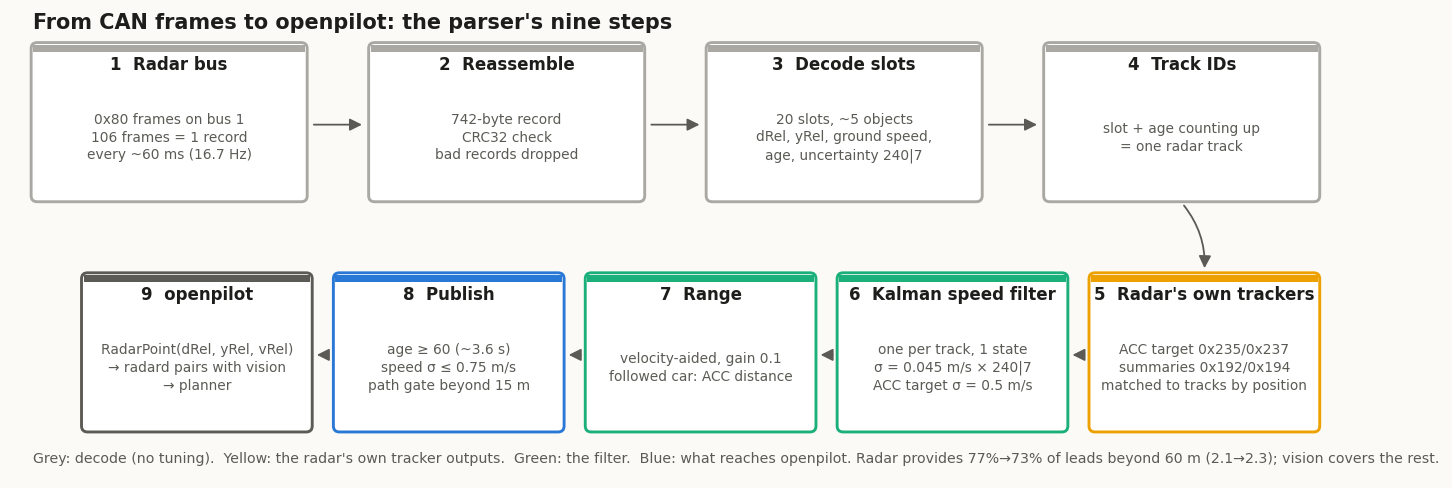
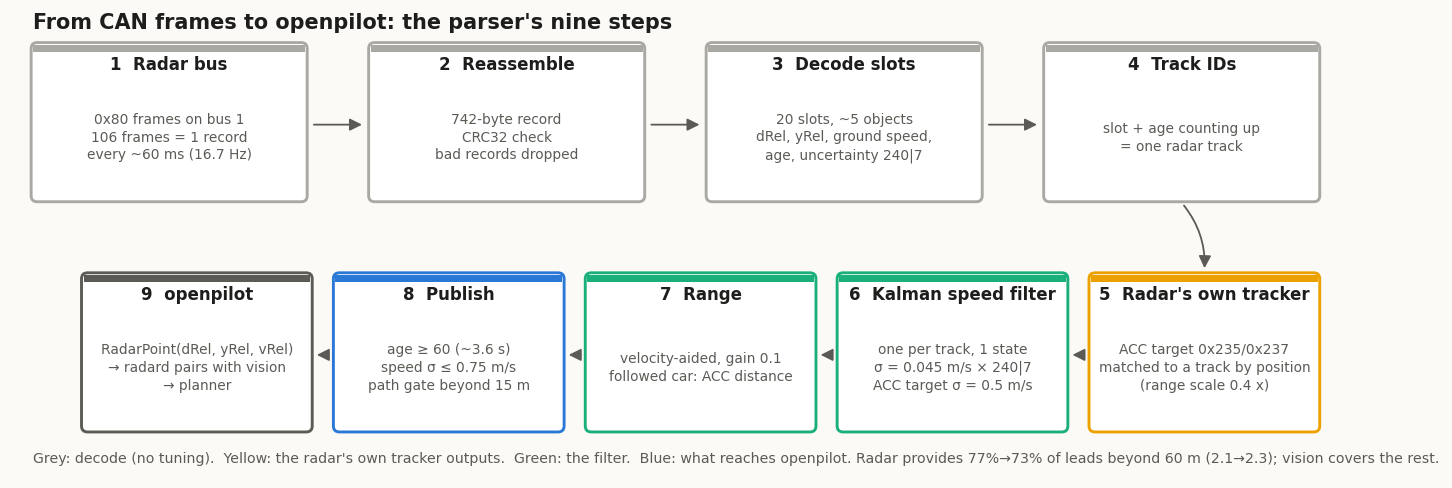
feat: fused 2.4.0 without the radar's target summaries: the default drives exactly like the openpilot version (#81)

Changed region(s): [[0.7438, 0.7377, 0.8988, 0.7992], [0.7438, 0.584, 0.9298, 0.6148]]

diff --git a/tools/make_guide_figures.py b/tools/make_guide_figures.py
@@ -46,7 +46,7 @@ def pipeline() -> None:
     ("2  Reassemble", "742-byte record\nCRC32 check\nbad records dropped", GRAY),
     ("3  Decode slots", "20 slots, ~5 objects\ndRel, yRel, ground speed,\nage, uncertainty 240|7", GRAY),
     ("4  Track IDs", "slot + age counting up\n= one radar track", GRAY),
-    ("5  Radar's own trackers", "ACC target 0x235/0x237\nsummaries 0x192/0x194\nmatched to tracks by position", S4),
+    ("5  Radar's own tracker", "ACC target 0x235/0x237\nmatched to a track by position\n(range scale 0.4 x)", S4),
     ("6  Kalman speed filter", "one per track, 1 state\nσ = 0.045 m/s × 240|7\nACC target σ = 0.5 m/s", S3),
     ("7  Range", "velocity-aided, gain 0.1\nfollowed car: ACC distance", S3),
     ("8  Publish", "age ≥ 60 (~3.6 s)\nspeed σ ≤ 0.75 m/s\npath gate beyond 15 m", S1),
@@ -218,9 +218,9 @@ def parts_ledger() -> None:
 def oracle() -> None:
   """Unnecessary and missed braking against openpilot's planner on a hindsight lead (confident moments), two data sets."""
   O = json.loads((SUM / "oracle_reference.json").read_text())
-  sets = (("owner's road drives (7.65 h)", O["confident"], ["vision", "2.1", "2.2", "2.3"]),
-          ("34 replay drives, independent (6.72 h)", O["suite_34_drives"]["confident"], ["vision", "2.1", "2.3"]))
-  names = {"vision": "vision only", "2.1": "2.1", "2.2": "2.2", "2.3": "2.3 (default)"}; col = {"vision": VIS, "2.1": V21, "2.2": GRAY, "2.3": V23}
+  sets = (("owner's road drives (7.65 h)", O["confident"], ["vision", "2.1", "2.3", "2.4"]),
+          ("34 replay drives, independent (6.72 h)", O["suite_34_drives"]["confident"], ["vision", "2.1", "2.3", "2.4"]))
+  names = {"vision": "vision only", "2.1": "2.1", "2.3": "2.3", "2.4": "2.4 (default)"}; col = {"vision": VIS, "2.1": V21, "2.3": GRAY, "2.4": V23}
   fig, axs = plt.subplots(2, 2, figsize=(11.5, 5.8))
   for r, (label, C, vers) in enumerate(sets):
     for c, (kind, title) in enumerate((("unnecessary", "braked > 0.5 m/s² harder than needed"), ("missed", "missed braking the oracle asked for"))):

diff --git a/tools/make_fused_figures.py b/tools/make_fused_figures.py
@@ -66,17 +66,14 @@ def how_it_works() -> None:
     a1.plot(rng, sig, color=GRAY, label="object-list speed (0.045 × 240|7)")
     a1.plot(rng, sig * FUSED_CONFIG.young_sigma_scale, color=GRAY, ls=":", label="… young track (× 1.8)")
     a1.axhline(FUSED_CONFIG.acc_sigma_mps, color=ACC, ls="--", lw=1.2, label="ACC target speed")
-    a1.plot([5, 80], [FUSED_CONFIG.summary_sigma_mps + 0.03] * 2, color=SUM, lw=1.2, label="summary speed (≤ 80 m)")
     a1.set_xlabel("range (m)"); a1.set_ylabel("reading std (m/s)"); a1.set_title("How much each reading is trusted")
     a1.legend(loc="upper left")
     # share of the estimate that comes from the radar's own trackers when they are present
     q = (FUSED_CONFIG.lead_accel_std_mps2 * 0.06) ** 2
     w_obj = 1 / sig ** 2; w_trk = 1 / FUSED_CONFIG.acc_sigma_mps ** 2
     a2.plot(rng, w_trk / (w_trk + w_obj), color=ACC, label="ACC target present")
-    w2 = np.where(rng <= 80, 2 * w_trk, w_trk)
-    a2.plot(rng, w2 / (w2 + w_obj), color=SUM, label="ACC target + summary")
-    a2.set_ylim(0, 1.02); a2.set_xlabel("range (m)"); a2.set_ylabel("weight of the radar's trackers")
-    a2.set_title("Near: object list. Far: the radar's trackers"); a2.legend(loc="lower right")
+    a2.set_ylim(0, 1.02); a2.set_xlabel("range (m)"); a2.set_ylabel("weight of the ACC target reading")
+    a2.set_title("Near: object list. Far: the ACC target"); a2.legend(loc="lower right")
     # speed std vs age for a constant lead at three ranges (the publication gate)
     for d, color in ((20, S1), (60, S4), (90, S2)):
         cfg = replace(FUSED_CONFIG, min_publish_age=1, publish_speed_std_mps=99.0)

diff --git a/ars510/interface.py b/ars510/interface.py
@@ -151,14 +151,15 @@ BASE_CONFIG = NativeInterfaceConfig(
 # yaw-predicted path at range (docs/12 "Lead-choice guards"). The openpilot
 # version (upstream/ars510_radar.py) is this profile in one file.
 FUSED_CONFIG = replace(BASE_CONFIG, range_fusion_gain=0.1, relink_max_gap_s=0.0, drop_saturated_codes=False,
-                       fused_speed_filter=True, path_gate_m=2.5)
+                       fused_speed_filter=True, path_gate_m=2.5, summary_sigma_mps=0.0)
 
 # Experimental (fork only, docs/12 "Kalman variants tested"): fused with the object-list error as a 1.2 s Gauss-Markov
 # bias state, noise scaled by ego speed and the radar's acceleration reading (fitted on the hidden-ACC teacher). 15%
 # fewer false closings offline and closer to vision on fresh drives, but slow to let go of a far excursion that recovers.
 COLORED_CONFIG = replace(FUSED_CONFIG, speed_sigma_per_code=0.001, speed_bias_tau_s=1.19, speed_bias_sigma_per_code=0.0096,
                          speed_sigma_ego_gain=0.48, speed_sigma_accel_gain=0.51, young_sigma_scale=1.0,
-                         lead_accel_std_mps2=1.0, speed_init_sigma_per_code=0.045, speed_divergence_inflation=True)
+                         lead_accel_std_mps2=1.0, speed_init_sigma_per_code=0.045, speed_divergence_inflation=True,
+                         summary_sigma_mps=0.5)
 
 NATIVE_VREL_STATUS = "native_over_ground_minus_ego"
 UNRESOLVED_NAN = "unresolved_nan"

diff --git a/openpilot/ars510_radar_interface.py b/openpilot/ars510_radar_interface.py
@@ -37,8 +37,8 @@ from opendbc.car.toyota.ars510 import BASE_CONFIG, COLORED_CONFIG, FUSED_CONFIG,
 from opendbc.car.toyota.ars510.constants import (ACC_TARGET_POS_ADDR, ACC_TARGET_VREL_ADDR, CAR_BUS, ID80_ADDR, RADAR_BUS, SUMMARY_ADDRS,
                                                  TOYOTA_KINEMATICS_ADDR, TOYOTA_SPEED_ADDR)
 
-# Decoder profile (docs/08): "fused" (FUSED_CONFIG, default: one Kalman speed filter fusing the object list, the ACC
-# target and the summaries by the radar's own uncertainty, docs/07), "raw" (BASE_CONFIG: the unfiltered radar
+# Decoder profile (docs/08): "fused" (FUSED_CONFIG, default: one Kalman speed filter fusing the object list and the ACC
+# target by the radar's own uncertainty, plus a path gate, docs/12), "raw" (BASE_CONFIG: the unfiltered radar
 # decode, research only) or "openpilot" (the upstream version, ars510_upstream.py: one file in opendbc style).
 # "colored" is an experimental fused variant for road tests (docs/12). `install.py --profile` rewrites this one line.
 PROFILES = {"fused": FUSED_CONFIG, "openpilot": None, "raw": BASE_CONFIG, "colored": COLORED_CONFIG}

diff --git a/openpilot/install.py b/openpilot/install.py
@@ -16,7 +16,7 @@ An install made with an older, patch-based version of this installer is removed 
 
 Profiles (docs/08 has the details and replay numbers):
   fused     FUSED_CONFIG (default): the radar decode + range fusion + one Kalman speed filter per track that weights
-            the object list, the radar's ACC target and its summaries by their own uncertainty
+            the object list and the radar's ACC target by their own uncertainty, with a path gate (= the openpilot version)
   raw       BASE_CONFIG: the unfiltered radar decode (not vision-only, not stock openpilot) with only what radard
             needs to run. Velocity excursions reach the planner unfiltered; for research and comparison only
   colored   experimental: fused with the object-list error as its own (colored-noise) state; fewer false closings

diff --git a/tests/test_profiles_and_ports.py b/tests/test_profiles_and_ports.py
@@ -155,5 +155,6 @@ def test_fused_is_raw_plus_range_fusion_and_one_speed_filter_without_relink_or_g
   from dataclasses import fields
   from ars510 import FUSED_CONFIG
   diff = {f.name for f in fields(BASE_CONFIG) if getattr(BASE_CONFIG, f.name) != getattr(FUSED_CONFIG, f.name)}
-  assert diff == {"range_fusion_gain", "relink_max_gap_s", "drop_saturated_codes", "fused_speed_filter", "path_gate_m"}
+  assert diff == {"range_fusion_gain", "relink_max_gap_s", "drop_saturated_codes", "fused_speed_filter", "path_gate_m",
+                  "summary_sigma_mps"}
   assert FUSED_CONFIG.range_fusion_gain == 0.1 and not FUSED_CONFIG.drop_saturated_codes

diff --git a/tests/test_upstream_candidate.py b/tests/test_upstream_candidate.py
@@ -10,14 +10,13 @@ from pathlib import Path
 
 import pytest
 
-from dataclasses import replace
 
 from ars510 import FUSED_CONFIG, BASE_CONFIG, Ars510NativeRadarInterface
 
 REPO = Path(__file__).resolve().parents[1]
 SAMPLES = sorted((REPO / "data" / "sample").glob("*.csv.gz"))
-# the openpilot version is fused without the summaries (docs/12: no difference in unjustified braking on 34 drives)
-OPENPILOT_EQUIVALENT = replace(FUSED_CONFIG, summary_sigma_mps=0.0)
+# the openpilot version is fused (since 2.4 neither uses the radar's summaries, docs/12)
+OPENPILOT_EQUIVALENT = FUSED_CONFIG
 
 
 def _fake_opendbc() -> dict:

diff --git a/docs/12_kalman_filter.md b/docs/12_kalman_filter.md
@@ -3,11 +3,11 @@
 The object list's speed has slow, correlated errors at range: false closings of 1-10 s beyond about 40 m
 ([07](07_velocity_excursions.md)). The radar reports their size in `240|7` but does not flag each one. The default
 `fused` profile handles them with **one Kalman filter per track** on the lead's speed over ground. Every reading is
-weighted by its own uncertainty: the object list, the radar's ACC target and its target-range summaries. radard then
-runs its usual filter on what this one publishes.
+weighted by its own uncertainty: the object list and the radar's ACC target. radard then runs its usual filter on what
+this one publishes.
 
 Code: `Ars510NativeRadarInterface._fused_speed` in [`ars510/interface.py`](../ars510/interface.py) (fork build), and
-the same filter without the summaries in [`upstream/ars510_radar.py`](../upstream/ars510_radar.py) (openpilot version). Numbers:
+the same filter in [`upstream/ars510_radar.py`](../upstream/ars510_radar.py) (openpilot version). Numbers:
 [`fused_filter.json`](../data/analysis/summaries/fused_filter.json).
 
 ## The model
@@ -27,7 +27,7 @@ publish      vRel = v − v_ego                 first publication once √P ≤ 
 |---|---|---|
 | object-list speed `64\|10` | 0.045 m/s × max(`240\|7`, 1); × 1.8 up to age 60, tapering to × 1 at age 100 | `240\|7` scales with the error against the ACC target ([07](07_velocity_excursions.md#far-range-excursions-match-the-reported-velocity-error-scale)); young tracks err 1.4-2× more |
 | ACC target speed (0x235 at 0.125 m/s per code, + ego speed) | 0.5 m/s | the radar's own ACC tracker, for the one track it matches by position ([05](05_acc_target_and_support.md)) |
-| summary speed (0x192 / 0x194 range, (code − 160) / 16 m; 1 s slope) | 0.5 m/s, up to 80 m | the positions of the radar's selected targets, each attached to the track at that position (range within 15 %, lateral within 1 m); not used on the ACC track |
+| summary speed (0x192 / 0x194 range, (code − 160) / 16 m; 1 s slope), fork option, off | 0.5 m/s, up to 80 m | the positions of the radar's selected targets, each attached to the track at that position (range within 15 %, lateral within 1 m); not used on the ACC track ([below](#what-the-summaries-do)) |
 
 The ACC target and summary units were corrected against the absolute `0x680` range (they had been read about 20%
 small). On the 34 replay drives the correction leaves hard radar-only braking and its unjustified part unchanged
@@ -181,14 +181,13 @@ leads beyond 60 m drops from 77 % to 73 % (vision covers the rest).
 | 34 drives | held-out hard ticks / episodes / target | further / owner hard ticks | owner target episodes | lead flips (held-out) | onset vs vision | driver brakes anticipated |
 |---|---|---|---|---|---|---|
 | 2.1 `fused` | 30 / 11 / 4 | 2 / 0 | 1 | 1,231 | −0.022 s | 43.7 % |
-| 2.3 `fused` (0.4 x ACC match, path gate) | 30 / 11 / 3 | 1 / 0 | 0 | 1,342 | −0.018 s | 41.9 % |
-| openpilot version (no summaries): 2.1 → 2.3 | 30 / 11 / 4 → 30 / 11 / 3 | 2 / 0 → 1 / 0 | 1 → 0 | 1,242 → 1,349 | −0.015 → −0.010 s | 43.1 → 41.3 % |
+| 2.4 `fused` (0.4 x ACC match, path gate; = the openpilot version) | 30 / 11 / 3 | 1 / 0 | 0 | 1,349 | −0.010 s | 41.3 % |
 
 On the owner's 5.8 h of 2.1 road drives (replayed open loop) 2.3 keeps hard radar-only braking at 0 and misses no hard
 vision brake. It cuts radar-only requests of 1 m/s² or more from 10 to 7, starts braking within 0.015 s of 2.1 on every
 drive, and raises lead flips by 8 %. It also removes the second car's hard false brake. In the late-brake case above,
 the first radar lead is at 63 m instead of 47 m and the request −1.47 instead of −2.36 m/s² (vision −1.61). The cost is
-a slightly lower share of driver brakes anticipated at −1 m/s² (41.9 against 43.7 %). Both new constants sit in a
+a slightly lower share of driver brakes anticipated at −1 m/s² (41.3 against 43.7 %). Both new constants sit in a
 flat region: an ACC match scale of 0.33 or 0.5 x and a gate of 2.0 or 3.0 m give the same 34-drive counts and stay
 within 0.4 s of 2.3 against the hindsight-lead oracle below. The openpilot file's parts and
 their line costs are in [10](10_research_directions.md#parts-of-the-openpilot-file).
@@ -206,10 +205,10 @@ because the model's lead range slides from one car to the next at cut-ins.
 
 ![against the oracle](img/analysis/guide_oracle.png)
 
-Over 7.65 h of the owner's road drives, 2.3 brakes unnecessarily (> 0.5 m/s² harder than the oracle, ≥ 0.3 s) for
-4.9 s against 10.6 s for vision only and 11.5 s for 2.1, and misses no more of the braking the oracle asked for (16.1 s,
-vision 16.9 s). On the 34 replay drives, which did not shape 2.3 (6.72 h scored), it is the best of the three on both:
-8.2 s unnecessary (vision 32.6 s, 2.1 8.4 s) and 3.9 s missed (vision 11.0 s, 2.1 5.1 s). Standstill is not scored: the
+Over 7.65 h of the owner's road drives, `fused` brakes unnecessarily (> 0.5 m/s² harder than the oracle, ≥ 0.3 s) for
+5.4 s against 10.6 s for vision only and 11.5 s for 2.1, and misses less of the braking the oracle asked for (13.8 s,
+vision 16.9 s). On the 34 replay drives, which did not shape it (6.72 h scored), it is the best of all versions on
+both: 7.2 s unnecessary (vision 32.6 s, 2.1 8.4 s) and 3.6 s missed (vision 11.0 s, 2.1 5.1 s). Standstill is not scored: the
 planner's stop-and-go logic dominates there. Numbers:
 [`oracle_reference.json`](../data/analysis/summaries/oracle_reference.json).
 
@@ -269,10 +268,11 @@ combination on the same 34 drives. A version drives the same as `fused` when its
 - **The young-track factor and the std gate cost about 5 lines.** With range fusion kept they prevent unjustified
   braking on a far lead (12 and 9 ticks).
 
-The smallest version with the same driving is `fused` without the summaries and the relink. That is the openpilot
-version ([`upstream/ars510_radar.py`](../upstream/ars510_radar.py); its parts and line costs are in [10](10_research_directions.md#parts-of-the-openpilot-file); a test keeps it equal to this
-configuration point for point). The fork's default `fused` keeps the summaries for the smoother response described
-below (`combinations_34_drives` in [`fused_filter.json`](../data/analysis/summaries/fused_filter.json)).
+The smallest version with the same driving is `fused` without the summaries and the relink, and since 2.4 that is
+`fused` itself. The openpilot version ([`upstream/ars510_radar.py`](../upstream/ars510_radar.py); its parts and line
+costs are in [10](10_research_directions.md#parts-of-the-openpilot-file)) is the same filter in one file, and a test
+keeps the two equal point for point (`combinations_34_drives` in
+[`fused_filter.json`](../data/analysis/summaries/fused_filter.json)).
 
 The rule fixed before these results also required no target episode on the owner drives, which the version without
 summaries missed by one. Reviewed afterwards, that episode was an early reaction to a real slowdown, not a false brake,
@@ -291,7 +291,13 @@ summaries reacted about 4 s earlier ([`summary_owner_case.json`](../data/analysi
 Over the 34 replay drives (about 5 h), the summaries change the planner's request by 0.3 m/s² or more on 198 ticks
 (about 10 s). Without them the planner brakes harder on 143 of those ticks: 107 while the gap really was closing, 36
 while it was not. The summaries soften the response to far leads without an ACC target, half usefully and half not.
-That is why the fork's `fused` keeps them and the openpilot version leaves them out.
+
+Against the hindsight-lead oracle ([above](#against-what-the-car-should-have-done)) they do not pay: without them 2.3
+brakes unnecessarily for 7.2 s instead of 8.2 s and misses 3.6 s instead of 3.8 s on the 34 independent drives (RMS
+0.244 against 0.245). On the owner's road drives the two are identical on all 23 bookmarks, with 0 hard radar-only
+braking and 7 mild requests each; against the oracle 5.4 against 4.9 s unnecessary and 13.8 against 16.0 s missed.
+Since 2.4 `fused` leaves them out, so the fork default and the openpilot version drive identically. The code stays as a
+fork option (`summary_sigma_mps`), and the experimental `colored` profile, which was tested with them, keeps them.
 
 ## Kalman variants tested
 

diff --git a/docs/11_profiles_compared.md b/docs/11_profiles_compared.md
@@ -12,12 +12,12 @@ Numbers: [`profiles_vs_vision.json`](../data/analysis/summaries/profiles_vs_visi
 
 | | `raw` | `fused` without ACC / summary | `fused` (default) |
 |---|---|---|---|
-| what it adds to the decode | nothing (validity, IDs, ego subtraction) | range fusion + one Kalman speed filter on the object list | the same filter, also fusing the radar's ACC target and summaries |
+| what it adds to the decode | nothing (validity, IDs, ego subtraction) | range fusion + one Kalman speed filter on the object list | the same filter, also fusing the radar's ACC target, plus a path gate |
 | filter settings | — | scalar process scale, robust update and readiness threshold | also tracker weights; [definitions and evidence](12_kalman_filter.md#the-model) |
-| code beyond the decode | ~60 (guard, relink; fork only) | +24 | +85 with the summaries (fork); +43 in the openpilot version |
+| code beyond the decode | ~60 (guard, relink; fork only) | +24 | the openpilot version is 184 code lines in all ([10](10_research_directions.md#parts-of-the-openpilot-file)) |
 | hard radar-only braking ticks, 20 held-out routes | 93 | 48 | **30** |
 | braking only the radar asked for, per hour (driver on the gas) | 1.75 (0.66) | 0.88 (0.22) | **0.22 (0)** |
-| first braking request vs vision only, 167 driver brakes | −0.15 s | −0.03 s | −0.02 s |
+| first braking request vs vision only, 167 driver brakes | −0.15 s | −0.03 s | −0.01 s |
 | recommended for | research | object-only fallback when neither a matched ACC target nor summary is available | everyday driving |
 
 `raw` is the unfiltered radar decode, not vision only and not stock openpilot. The middle column is not a separate
@@ -39,15 +39,15 @@ fork build (`ars510/`).*
   on the lead's over-ground speed ([12](12_kalman_filter.md#the-model)). It uses the scalar Kalman equations
   with a chosen process-noise scale of 1.5 m/s². Each reading updates it in turn, weighted by its model variance:
   object-list speed has σ = 0.045 m/s × max(`240|7`, 1), multiplied by 1.8 through age 60 and tapered to 1 at age 100.
-  An available matched ACC target or summary uses σ 0.5 m/s; at most one tracker is applied to each native track. Innovations beyond 3σ count as 3σ (a robust Kalman update), and
+  The matched ACC target uses σ 0.5 m/s for the one track it describes. Innovations beyond 3σ count as 3σ (a robust Kalman update), and
   a track is first published once its modeled speed standard deviation is at most 0.75 m/s (and age at least 60).
   This is an operational readiness gate, not a calibrated physical error bound. radard then runs its own Kalman
   filter on the lead; `fused` feeds it one speed per track that already combines what the radar knows.
 
 ![fused: weights and publication](img/analysis/fused_how_it_works.png)
 
-*Left: how much `fused` trusts each reading by range. Middle: the share of the estimate coming from the radar's own
-trackers when they are present. Near, the object list dominates; beyond ~40 m the ACC target and summaries do. Right:
+*Left: how much `fused` trusts each reading by range. Middle: the share of the estimate coming from the radar's ACC
+target when it is present. Near, the object list dominates; beyond ~40 m the ACC target does. Right:
 speed standard deviation of a new track against age; the 0.75 m/s line is the publication gate, which holds young far
 tracks back without a range threshold.*
 
@@ -87,10 +87,10 @@ Held-out set: 20 routes, 4.56 h with the driver controlling speed, 167 driver br
 
 | driver brake presses (167) | vision only | `raw` | `fused` w/o ACC / summary | `fused` |
 |---|---|---|---|---|
-| first request ≤ −0.5 m/s², mean vs vision (95 % CI) | — | −0.15 s [−0.26, −0.05] | −0.03 s [−0.11, +0.04] | −0.02 s [−0.08, +0.04] |
-| median first request vs the brake press | −0.61 s | −0.87 s | −0.74 s | −0.78 s |
+| first request ≤ −0.5 m/s², mean vs vision (95 % CI) | — | −0.15 s [−0.26, −0.05] | −0.03 s [−0.11, +0.04] | −0.01 s [−0.07, +0.04] |
+| median first request vs the brake press | −0.61 s | −0.87 s | −0.74 s | −0.73 s |
 | already asking ≤ −0.5 m/s² within 3 s before | 80.8 % | 84.4 % | 83.8 % | 82.0 % |
-| already asking ≤ −1.0 m/s² within 3 s before | 40.1 % | 44.3 % | 41.9 % | 41.9 % |
+| already asking ≤ −1.0 m/s² within 3 s before | 40.1 % | 44.3 % | 41.9 % | 41.3 % |
 | hard slowdowns never asked ≤ −1 m/s² (of 47) | 10 | 9 | 10 | 10 |
 
 | over 4.56 h of driver-controlled driving | vision only | `raw` | `fused` w/o ACC / summary | `fused` |
@@ -112,7 +112,7 @@ What the radar adds, by profile:
   than the vision lead in the 4 s before driver brakes). The same bias causes its radar-only braking.
 - **`fused` removes that bias** and, with it, almost all radar-only braking: 0.22 per hour, every one while the
   driver also slowed. It still brakes slightly earlier than vision on average (−0.02 s): 22 of 148 paired driver brakes
-  are answered earlier than vision and 13 later, and it is already asking for ≥ 1 m/s² before 41.9% of brake presses
+  are answered earlier than vision and 13 later, and it is already asking for ≥ 1 m/s² before 41.3% of brake presses
   (vision 40.1%). In the 4 s before driver brakes its lead shows on average 0.44 m/s less closing than the vision lead
   (median 0.26; [`profiles_vs_vision.json`](../data/analysis/summaries/profiles_vs_vision.json)).
 - **The Kalman filter alone** (no ACC target or summary) halves `raw`'s false braking (93 → 48 hard ticks, as many as
@@ -160,7 +160,7 @@ What the radar adds, by profile:
 | Chrysler | 56 | pass-through |
 | GM | 71 | pass-through of the radar's targets |
 | Ford | 194 | clusters raw Delphi detections into tracks |
-| **ARS510 openpilot version** ([`upstream/ars510_radar.py`](../upstream/ars510_radar.py)) | 189 | `fused` without the summaries, in one file: |
+| **ARS510 openpilot version** ([`upstream/ars510_radar.py`](../upstream/ars510_radar.py)) | 184 | `fused`, in one file: |
 | … record reassembly, CRC, slot decode, track IDs, publication | 84 | a 742-byte record from 106 CAN frames, 20 slots of bit fields |
 | … ACC target association | 18 | match the radar's own ACC target to one track |
 | … Kalman speed filter and range fusion | 24 | the filter itself |

diff --git a/docs/08_openpilot_integration.md b/docs/08_openpilot_integration.md
@@ -69,14 +69,14 @@ and ID continuity also depend on the profile.
 
 | profile | what it is | when to use |
 |---|---|---|
-| **`fused`** (default) | `FUSED_CONFIG` = `raw` + range fusion + one Kalman speed filter that weights the object list, the radar's ACC target and its summaries by their own uncertainty ([12](12_kalman_filter.md#the-model)), with a path gate against next-lane leads ([12](12_kalman_filter.md#path-gate)) | everyday driving: the fewest false brakes, unbiased closing speed, vision's timing ([11](11_profiles_compared.md)) |
+| **`fused`** (default) | `FUSED_CONFIG` = `raw` + range fusion + one Kalman speed filter that weights the object list and the radar's ACC target by their own uncertainty ([12](12_kalman_filter.md#the-model)), with a path gate against next-lane leads ([12](12_kalman_filter.md#path-gate)) | everyday driving: the fewest false brakes, unbiased closing speed, vision's timing ([11](11_profiles_compared.md)) |
 | `raw` | `BASE_CONFIG`: the unfiltered radar decode plus only what radard needs (tracks from age 60, ego-speed subtraction, invalid-code guard) | research and comparison only. **Velocity excursions reach the planner unfiltered** |
-| `openpilot` | the upstream version ([`upstream/ars510_radar.py`](../upstream/ars510_radar.py)): one file in opendbc style with `fused`'s filter minus the summaries, points with `trackId` / `dRel` / `yRel` / `vRel` only ([10](10_research_directions.md#towards-an-upstream-comma-interface)) | driving exactly what is proposed for openpilot |
+| `openpilot` | the upstream version ([`upstream/ars510_radar.py`](../upstream/ars510_radar.py)): one file in opendbc style with `fused`'s filter, points with `trackId` / `dRel` / `yRel` / `vRel` only ([10](10_research_directions.md#towards-an-upstream-comma-interface)) | driving exactly what is proposed for openpilot |
 | `colored` | experimental: `COLORED_CONFIG`, `fused` with a colored-noise (bias) state for the object list ([12](12_kalman_filter.md#kalman-variants-tested)) | road tests only: fewer false closings offline, slower to let go of a far excursion that recovers |
 
 `--profile openpilot` runs the same `Ars510Radar` core as the standalone file through the fork adapter (fork
-constructor arguments, legacy point fields); its `trackId` / `dRel` / `yRel` / `vRel` match `fused` with the summaries
-off ([12](12_kalman_filter.md#removing-parts-together)).
+constructor arguments, legacy point fields); its `trackId` / `dRel` / `yRel` / `vRel` match `fused` exactly
+([12](12_kalman_filter.md#removing-parts-together)).
 
 `raw` is the unfiltered radar decode, not vision-only and not stock openpilot; its older names `stock` and `default` are still accepted. The earlier tuned profiles `anchor` and `steady` were outperformed by `fused` and removed: `--profile anchor` or `steady` installs `fused` with a notice.
 
@@ -91,7 +91,7 @@ Replay against the driver, unchanged openpilot card → radard → planner
 | hard radar-only braking ticks / target episodes, owner sunnypilot drives | 17 / – | **0** / 4 | **0** / 1 (an early reaction to a real slowdown) |
 | hard radar-only braking ticks, fresh owner drives (1.9 h) | 16 | – | **0** |
 | mean braking onset vs the driver, 167 held-out events | −1.170 s | −1.090 s | −1.085 s |
-| driver brakes the planner anticipated (≤ −1 m/s² from 3 s before to 0.5 s after) | 44.3% | 41.9% | 41.9% |
+| driver brakes the planner anticipated (≤ −1 m/s² from 3 s before to 0.5 s after) | 44.3% | 41.9% | 41.3% |
 
 The middle column is `fused` with the ACC target and summary readings ignored: the Kalman filter on the object list
 alone, which is the fallback when neither a matched ACC target nor a summary update is available.
@@ -113,7 +113,7 @@ What each setting does (examples and plots in [07](12_kalman_filter.md)):
 | `vground_scale=0.149/0.15`, `drop_unresolved_vrel` | all | ego-speed alignment against Toyota 0xB4; no point without a fresh ego speed (radard's filter never recovers from NaN) |
 | `drop_saturated_codes` | raw | withholds the invalid velocity code 1023/0 and restarts the track ID afterwards (the filter's robust update absorbs it in `fused`) |
 | `range_fusion_gain=0.1` | fused | predicts dRel with vRel and corrects 10% toward the measurement: halves 1.5 s range walks |
-| `fused_speed_filter` (σ per reading from `240\|7`, ACC target, summary; lead acceleration 1.5 m/s²; 3σ clamp; first publication at speed std ≤ 0.75 m/s) | fused | one Kalman speed filter per track ([07](12_kalman_filter.md#the-model)); the ACC target is associated by position and the association survives the target's range sliding; summaries are used up to 80 m |
+| `fused_speed_filter` (σ per reading from `240\|7`, ACC target; lead acceleration 1.5 m/s²; 3σ clamp; first publication at speed std ≤ 0.75 m/s) | fused | one Kalman speed filter per track ([07](12_kalman_filter.md#the-model)); the ACC target is associated by position and the association survives the target's range sliding; the summaries are an option, off |
 
 ## What radard does with radar points
 
@@ -148,12 +148,12 @@ unchanged openpilot card → radard → planner; details, driving pros and cons 
 
 | | vision only | `raw` | `fused` without ACC / summary | `fused` |
 |---|---|---|---|---|
-| first braking request vs vision, mean | — | −0.15 s | −0.03 s | −0.02 s |
-| already asking ≤ −1.0 m/s² within 3 s before a brake press | 40.1% | 44.3% | 41.9% | 41.9% |
+| first braking request vs vision, mean | — | −0.15 s | −0.03 s | −0.01 s |
+| already asking ≤ −1.0 m/s² within 3 s before a brake press | 40.1% | 44.3% | 41.9% | 41.3% |
 | hard slowdowns never asked ≤ −1 m/s² (of 47) | 10 | 9 | 10 | 10 |
 | braking only the radar asked for, per hour (driver on the gas) | 0 | 1.75 (0.66) | 0.88 (0.22) | 0.22 (0) |
 | request jerk, mean \|da/dt\| | 1.029 | 1.009 | 1.007 | 0.999 |
-| flips between a radar and a vision lead, per hour | 0 | 939 | 703 | 494 |
+| flips between a radar and a vision lead, per hour | 0 | 939 | 703 | 497 |
 | forward-collision warnings | 0 | 0 | 0 | 0 |
 
 `raw`'s earlier reactions come partly from real head starts (closings through curves, far away) and

diff --git a/README.md b/README.md
@@ -42,14 +42,14 @@ From replaying 34 recorded drives through openpilot's unchanged radard and plann
 
 - **Leads come from the radar** about 87% of the time a lead exists, so the gap to the car ahead is measured, not
   estimated from the camera. Stops end about 1 m closer to the lead than with vision (vision reads the gap short).
-- **Braking starts slightly before vision-only would** on average (0.02 s), and the planner is already asking for
-  ≥ 1 m/s² before 42% of the driver's brake presses (vision: 40%). On some real slowdowns the radar sees the closing
+- **Braking starts slightly before vision-only would** on average (0.01 s), and the planner is already asking for
+  ≥ 1 m/s² before 41% of the driver's brake presses (vision: 40%). On some real slowdowns the radar sees the closing
   first (curves, far leads); on others vision does.
 - **Braking that only the radar wanted** happens about 0.22 times per hour (the unfiltered radar: 1.75), always while
   the driver also slowed, never while the driver was on the gas. The requests are as smooth as vision-only.
 - **Against what the car should have done** (openpilot's planner on a hindsight lead, 7.65 h of road drives), it
-  brakes unnecessarily for 4.9 s against 10.6 s for vision only (34 replay drives: 8.2 s against 32.6 s), and misses no
-  more braking
+  brakes unnecessarily for 5.4 s against 10.6 s for vision only (34 replay drives: 7.2 s against 32.6 s), and misses
+  less braking
   ([12](docs/12_kalman_filter.md#against-what-the-car-should-have-done)).
 - **Known quirk:** far away (beyond about 80 m) without the radar's own ACC target, a jump in a far car's reported
   speed can still cause a short, mild slowdown.
@@ -61,14 +61,14 @@ These are replay results on one owner's car. On the road (7.4 h on the owner's c
 ## How the filter works
 
 The radar's object list is accurate in distance, but its speed at range sometimes drifts into a false closing for
-1-10 s. The radar reports how uncertain each speed is (`240|7`) and also sends its own, smoother tracker outputs: the
-ACC target and target summaries. `fused` runs **one Kalman filter per track** on the lead's speed. Every reading is
+1-10 s. The radar reports how uncertain each speed is (`240|7`) and also sends its own, smoother tracker output for the
+car its ACC function follows: the ACC target. `fused` runs **one Kalman filter per track** on the lead's speed. Every reading is
 weighted by its own uncertainty, so the gain changes each cycle:
 
 ```text
 predict  v⁻ = v,  P⁻ = P + (1.5 m/s² · Δt)²
 update   K = P⁻ / (P⁻ + σ²),  v = v⁻ + K · clamp(z − v⁻, ±3√(P⁻ + σ²)),  P = (1 − K) P⁻
-σ:       object list 0.045 m/s × 240|7 · ACC target 0.5 m/s · summary 0.5 m/s (≤ 80 m)
+σ:       object list 0.045 m/s × 240|7 · ACC target 0.5 m/s
 ```
 
 ![the Kalman filter on one track](docs/img/analysis/kalman_trace.png)
@@ -81,20 +81,19 @@ matched to tracks, what each part is worth and the variants tested: [docs/12](do
 
 ## Profiles
 
-The code comes in two versions that run the same filter:
+The code comes in two versions that drive identically:
 - **Fork build:** the `ars510/` package, installed by default. It is configurable, has the profiles below, and fills
   the extra point fields sunnypilot still uses.
 - **openpilot version:** [`upstream/ars510_radar.py`](upstream/ars510_radar.py), one file of 224 lines (184 code) in opendbc style; [docs/10](docs/10_research_directions.md#parts-of-the-openpilot-file) lists what each part costs and buys.
-  It is the smallest version that drives like `fused` on 34 replay drives: the same filter without the radar's
-  summaries and the track-ID relink, which change no unjustified braking
-  ([docs/12](docs/12_kalman_filter.md#removing-parts-together)). A test keeps it equal to that configuration point for
-  point.
+  It is `fused` in one file: a test keeps it equal to `FUSED_CONFIG` point for point. The fork build can still add the
+  radar's target summaries and the track-ID relink as options; neither improves the driving
+  ([docs/12](docs/12_kalman_filter.md#what-the-summaries-do)).
 
 | profile | install | what it does | use it for |
 |---|---|---|---|
-| **`fused`** (default) | `install.py /data/openpilot` | one Kalman speed filter per track that weights the object list, the radar's ACC target and its target summaries by the radar's own uncertainty, and keeps cars in the next lane from becoming the lead | everyday driving: fewest false brakes, vision's smoothness |
+| **`fused`** (default) | `install.py /data/openpilot` | one Kalman speed filter per track that weights the object list and the radar's ACC target by the radar's own uncertainty, and keeps cars in the next lane from becoming the lead | everyday driving: fewest false brakes, vision's smoothness |
 | `raw` | `--profile raw` | the unfiltered radar decode (not vision only, not stock openpilot) | research and comparison only: speed excursions reach the planner |
-| `openpilot` | `--profile openpilot` | the openpilot version: `fused`'s filter without the summaries, from the single upstream file; points with `trackId` / `dRel` / `yRel` / `vRel` only | driving exactly what is proposed for openpilot |
+| `openpilot` | `--profile openpilot` | the openpilot version: `fused` from the single upstream file; points with `trackId` / `dRel` / `yRel` / `vRel` only | driving exactly what is proposed for openpilot |
 | `colored` | `--profile colored` | experimental: `fused` with the object list's slow speed error as its own state | road tests of the main alternative ([docs/12](docs/12_kalman_filter.md#kalman-variants-tested)) |
 
 ![which processing each profile applies](docs/img/analysis/profile_layers.png)

diff --git a/docs/00_start_here.md b/docs/00_start_here.md
@@ -127,10 +127,10 @@ More: [11 Profiles compared](11_profiles_compared.md), [08](08_openpilot_integra
 | leads from the radar when a lead exists | about 87 % | [11](11_profiles_compared.md) |
 | braking only the radar asked for, per hour (34 drives) | `raw` 1.75, `fused` 0.22 | `profiles_vs_vision.json` |
 | hard radar-only braking ticks, 20 held-out drives | `raw` 93, `fused` 30 (27 of 32 hard ticks judged real) | `hard_braking_review.json` |
-| braking onset against vision only | −0.02 s (95 % CI −0.08 … +0.04) | `profiles_vs_vision.json` |
-| driver brakes already anticipated at ≤ −1 m/s² | `fused` 41.9 %, vision 40.1 % | `profiles_vs_vision.json` |
+| braking onset against vision only | −0.01 s (95 % CI −0.07 … +0.04) | `profiles_vs_vision.json` |
+| driver brakes already anticipated at ≤ −1 m/s² | `fused` 41.3 %, vision 40.1 % | `profiles_vs_vision.json` |
 | owner road drives with 2.1 (5.8 moving h, replayed) | 0 hard radar-only episodes; braking starts 0.4-1.0 s before vision | `road_v21.json` |
-| unnecessary / missed braking against a hindsight oracle | road drives (7.65 h): `fused` 4.9 / 16.1 s, vision 10.6 / 16.9 s; 34 replay drives (6.72 h): `fused` 8.2 / 3.9 s, vision 32.6 / 11.0 s | `oracle_reference.json` |
+| unnecessary / missed braking against a hindsight oracle | road drives (7.65 h): `fused` 5.4 / 13.8 s, vision 10.6 / 16.9 s; 34 replay drives (6.72 h): `fused` 7.2 / 3.6 s, vision 32.6 / 11.0 s | `oracle_reference.json` |
 | openpilot file | 184 code lines | `openpilot_file_parts.json` |
 
 ## How to read the evidence
@@ -155,7 +155,7 @@ More: [11 Profiles compared](11_profiles_compared.md), [08](08_openpilot_integra
 | **uncertainty `240\|7`** | the radar's own speed-error code per object; the filter weights the speed by it |
 | **excursion** | a 1-10 s stretch where the object list's speed is wrong, mostly a false closing on a far car |
 | **ACC target** | the car the radar's own ACC function follows (0x235 / 0x237): smooth distance and speed |
-| **summaries** | the radar's selected-target ranges (0x192 / 0x194), a second tracker output used by the fork profile |
+| **summaries** | the radar's selected-target ranges (0x192 / 0x194), a second tracker output; tested, off by default |
 | **radard** | openpilot's process that turns radar points and the camera's lead into the lead the planner follows |
 | **hard radar-only tick** | a 20 Hz tick where the radar planner asks for ≤ −2 m/s² while vision only asks for ≥ −0.5 |
 | **target episode** | the radar planner asks for ≤ −1 m/s² while vision only asks for ≥ −0.3, for ≥ 0.3 s while moving |
